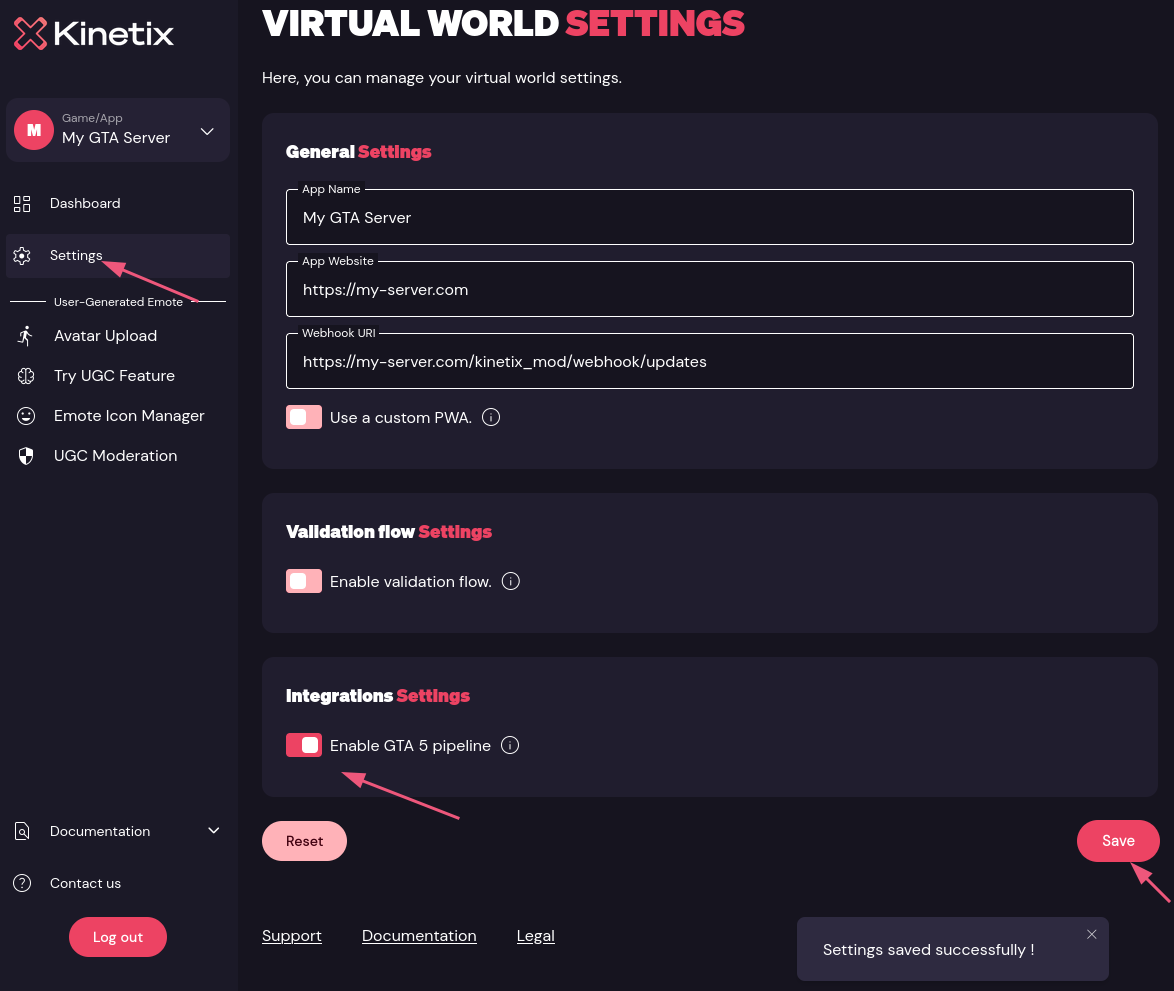
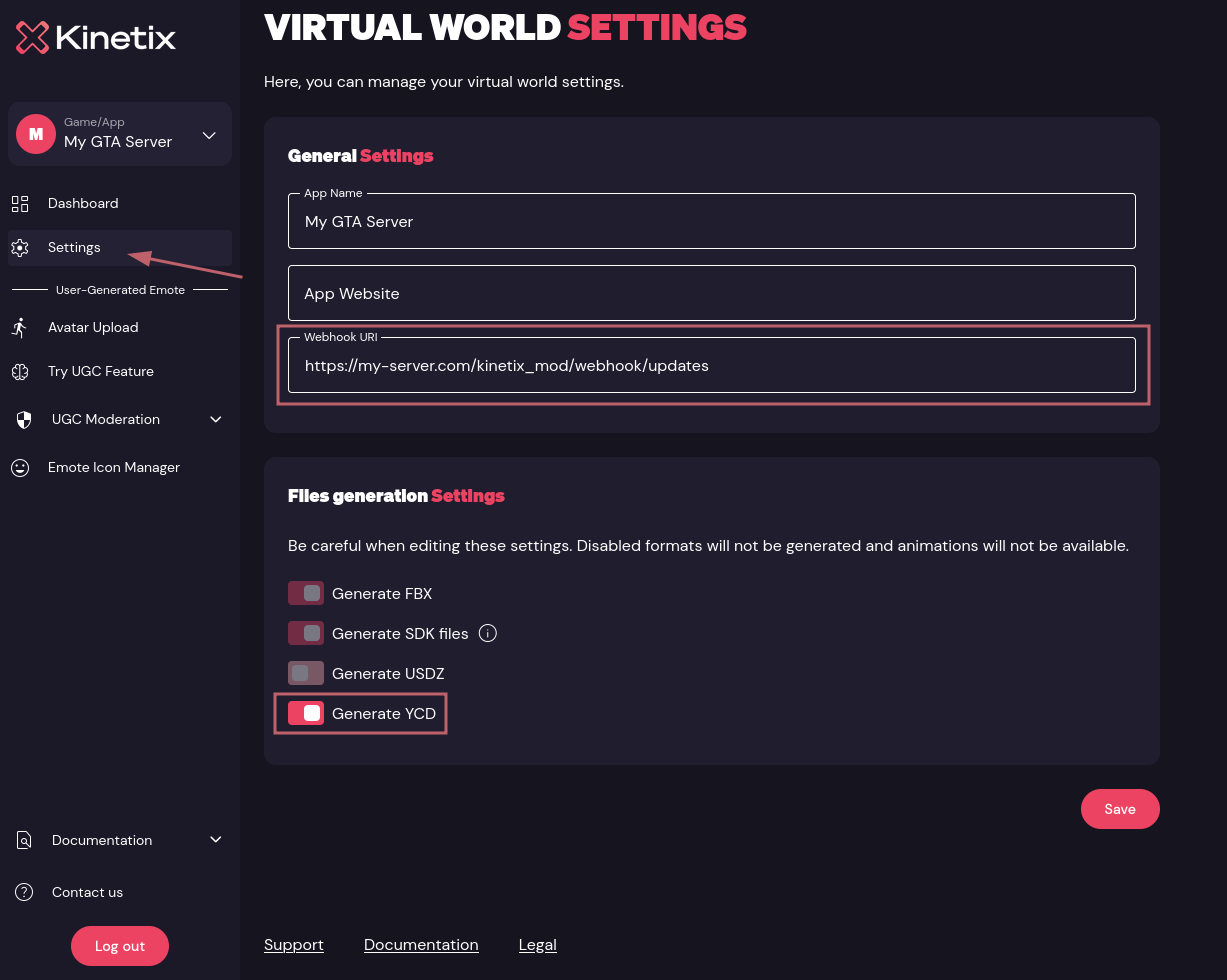
[FIX] README.md

diff --git a/README.md b/README.md
@@ -30,20 +30,20 @@ Extract the zip file into your server's resource folder.
 
 - Create an account on Kinetix's [Developer Portal](https://portal.kinetix.tech).
 
-- Select "Get our SDK"
-  - In the webhook field, set your server's public IP / Domain name with '/kinetix_mod/webhook/updates' (eg. https://my-server.com/kinetix_mod/webhook/updates)
+- Get started by creating an App
 
 &nbsp;&nbsp;&nbsp;&nbsp;&nbsp;&nbsp;&nbsp;&nbsp;&nbsp;&nbsp;&nbsp;&nbsp;![](game_creation.png)
 
-- Enable the GTA V pipeline in your app settings
-
-&nbsp;&nbsp;&nbsp;&nbsp;&nbsp;&nbsp;&nbsp;&nbsp;&nbsp;&nbsp;&nbsp;&nbsp;![](settings.png)
-
-- Create an API Key
+- In the dashboard page, generate an API Key and set it in your kinetix_mod resource (kinetix_mod/server/core.lua)
 
 &nbsp;&nbsp;&nbsp;&nbsp;&nbsp;&nbsp;&nbsp;&nbsp;&nbsp;&nbsp;&nbsp;&nbsp;![](key_creation.png)
 
-- Set this API Key in kinetix_mod/server/core.lua
+- Get to the setting page
+  - In the webhook field, set your server's public IP / Domain name with '/kinetix_mod/webhook/updates' 
+    - example : https://my-server.com/kinetix_mod/webhook/updates
+  - Enable the YCD file generation
+
+&nbsp;&nbsp;&nbsp;&nbsp;&nbsp;&nbsp;&nbsp;&nbsp;&nbsp;&nbsp;&nbsp;&nbsp;![](settings.png)
 
 - Add these ACE rules in your server config
   ```
@@ -59,4 +59,4 @@ Extract the zip file into your server's resource folder.
 
 The default key to open the animation creation menu is `F5`. This can be changed in kinetix_mod/client/core.lua
 
-The default key to open the emote wheel is `Z`, the default ox_lib's radial menu shortcut. 
+The default key to open the emote wheel is `Z` (or `W`), the default ox_lib's radial menu shortcut. 
